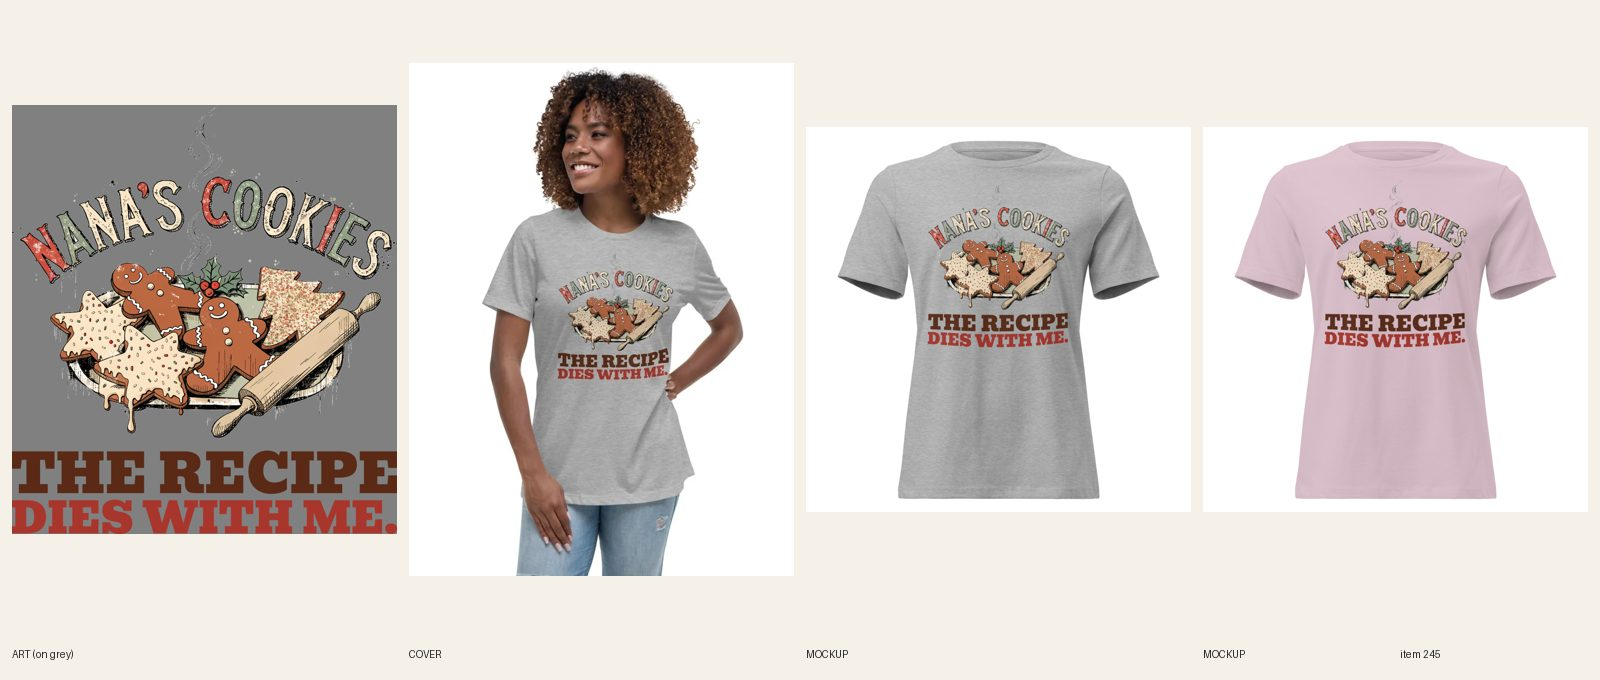
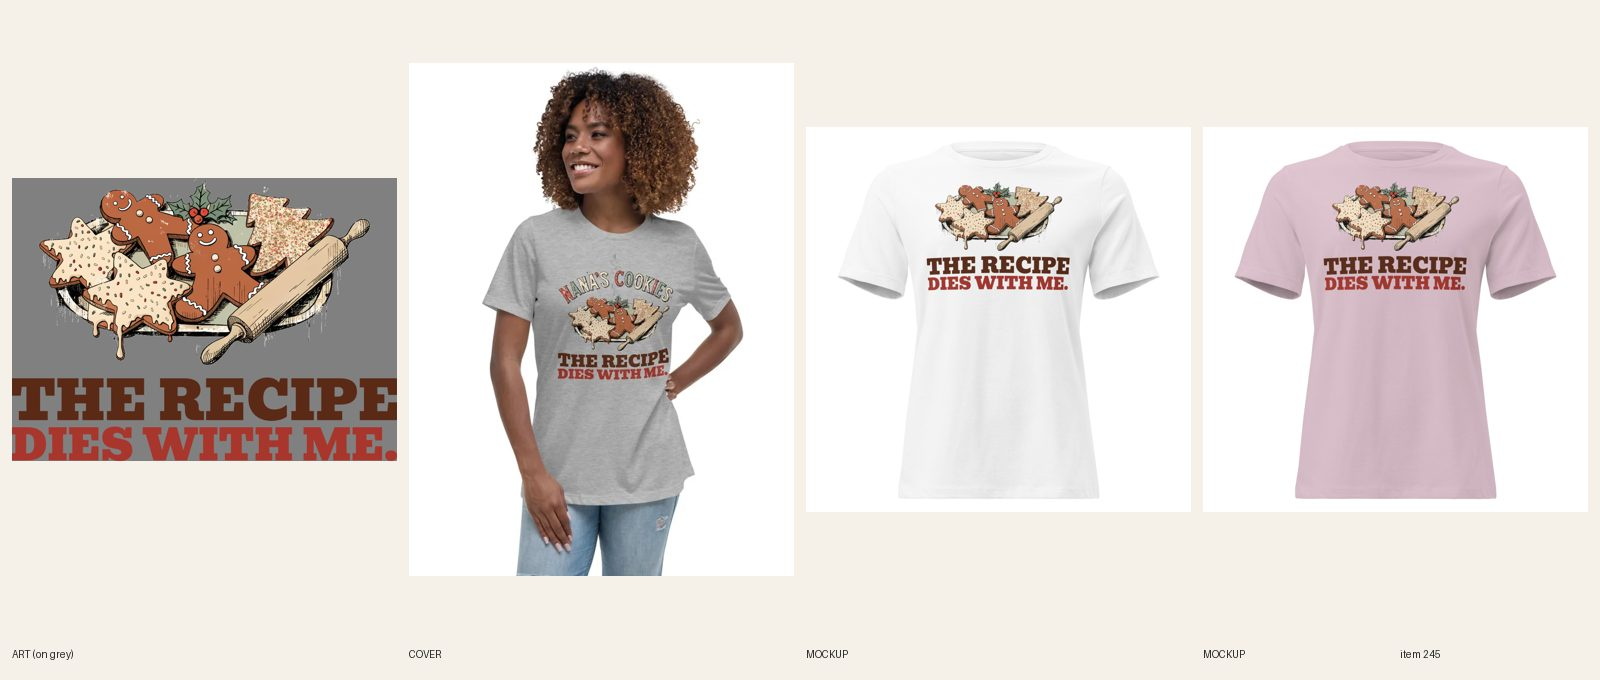
[A] review 245 Nana's Cookies: old arch removed from print; lock released

Changed region(s): [[0.0, 0.1544, 0.25, 0.8029], [0.5, 0.1853, 0.7188, 0.7412], [0.8125, 0.2471, 0.9375, 0.525]]

diff --git a/docs/pipeline/245-christmas-nanas-cookies.md b/docs/pipeline/245-christmas-nanas-cookies.md
@@ -28,3 +28,4 @@ handle: womens-christmas-nanas-cookies-graphic-tee
 - 2026-10-17 22:49 UTC director: APPROVED, LIVE. ACTIVE + Online Store, Headless and Google & YouTube; audit --admin-json PASS (0 warn) after an R8 copy polish (repeated product names and superlatives trimmed).
 - 2026-10-18 17:22 UTC director: QUALITY RESET grade C (new line + type), REDO. The product stays ACTIVE (same handle, URL, title keyword). 1. Line (R3.12, quality-reset 'Lines'): "NANA'S COOKIES / RECIPE NOT AVAILABLE": Noun + mild aside, the exact step-back pattern. Write 5 candidates, keep the one a stranger laughs at in 3 seconds without backstory; kill lines that only describe the picture; if none of the 5 is funny, PARK it. 2. Quality reset type bar (docs/backlog/quality-reset.md, 'The new bar'): headline at least 90% of the art width, heavy, colors pulled from the art; second line at least 45% of the headline's height, never a thin script on a dark or mid garment; use the lettering as a shape (arch, stacked lockup, words breaking into the art), not a plain bar above and a script line below; no font used on more than 1 in 6 of the last 30 designs. 3. Keep the art if it carries the new line, else one new illustration (R4/R5). New print means a new cover per R6.10, copy line one rewritten for the new joke (R8.3), and a fresh review sheet (R7.7). While quality-reset.md says PAUSED, only lane A builds, and only the samples step 2 names.
 - 2026-10-18 19:15 UTC builder [A]: quality-reset REDO sample 3 of 5. Five candidates (R3.12): Nana's Cookies / Recipe Not Available (old) / THE RECIPE DIES WITH ME. / Ask Nicely. She Still Won't Tell You. / Take The Cookies. Forget The Recipe. / Nana Says No To Sharing; kept #2, a stranger gets it in 3 s with no backstory. Art: same cookie tray and hand-lettered NANA'S COOKIES arch (old small line dropped, fal $0). Type: new font Bevan (OFL), THE RECIPE dark brown #5a2a17 and DIES WITH ME. red #a8362d, both lines 3400 px = 100% of the art width, second line 79% of the headline height, no script. Light colors only, so one dark-ink file (light file: n/a, no light-ink headline). Printful file 1089045338 (3400x3789), FW 1500 TOP 75, R7.7 relink 36/36 on 1089045338, back logo kept. New fronts for all 6 colors attached and linked, old fronts deleted, read at 400 px. Cover: Printful lifestyle Women's 3 front (style 19104) on Athletic Heather, hair and hand clear of the print, alt starts Woman. Copy, SEO and 5 FAQs (49-53 words, order-by Dec 8) rewritten. design-crops rerun, audit --handle PASS 0 warn, astro build OK. Twin #244 (crewneck) still carries the old line. Needs Sam's look.
+- 2026-10-19 02:10 UTC builder [A]: Sam's #245 fix (remove old sprinkle-filled NANA'S COOKIES arch + steam). Art: arch and steam erased from the live print, cookie tray kept, lockup THE RECIPE / DIES WITH ME. unchanged (docs/print-files/245-recipe-v2.png, 3400x2498, Printful file 1089291319, FW 1500 TOP 75). Relinked 36/36 + back logo; new fronts for all 6 colors attached and linked, old fronts deleted; read at 400 px (White, Athletic Heather, Light Violet). Copy: Story + FAQ 1 no longer mention the arch. Cover untouched (on hold, Sam 2026-10-19). audit --handle PASS 0 warn. fal $0. Sheet docs/review/245.jpg. #624 print-lower/bigger not touched: its complaint was the pasted cover print (cover work on hold) and its print already FW 1500 TOP 0 (1727 px of 2100 area). REVIEW for Sam's look.

diff --git a/docs/intake-log.md b/docs/intake-log.md
@@ -1,4 +1,4 @@
-RUNNING lane A since 2026-10-19 02:03 UTC
+2026-10-19 02:10 UTC — [A] Builder run (quality reset, sample REDO only): #245 old sprinkle arch and steam removed from the print (tray + THE RECIPE / DIES WITH ME. kept), 36/36 relinked, 6 new color mockups, copy fixed, REVIEW (stays ACTIVE). #624 untouched: its remaining complaint was the cover (on hold). Covers on hold per Sam. fal 0. Lock released.
 2026-10-19 01:44 UTC — [H] Helper run: Telegram inbox empty (getUpdates returned 0 updates; no pause, resume or TikTok links; nothing to consume). Audit (597 products): 0 errors, 30 warnings left alone (polish); no meta, SEO, collection or price errors to fix. Category check (one-time rule, still checking): 0 products without a category. Site freshness: womens-nana-mom-said-no-thats-cute-crewneck-sweatshirt, mens-welder-i-basically-hot-glue-metal-graphic-tee, mens-running-i-only-run-downhill-graphic-tee all 200; /group-shirts/ 200. Stuck check: none (0 items BUILDING; no lane lock). Daily summary not due (first run after 12:00 UTC is still ahead). Lock released.
 2026-10-19 01:20 UTC — [D] Director run (quality reset still PAUSED: published nothing, wrote no design briefs). Inbox: nothing new since 23:15. Reviewed sock REDOs #660 and #664 from their sheets: both APPROVED and held as DRAFT at REVIEW until RESUME, so all 6 socks (#660-#665) are approved and waiting; #661-663/665 still need the one-word 'lockup' copy fix at publish. Niche collection pages: nothing newly eligible (no new LIVE products). Weekly AEO check (Monday) skipped: the reset allows step 1 and the niche pages only. No Telegram (midnight digest already sent; nothing needs Sam; his 5 samples still await his reply). Lock released.
 2026-10-19 00:44 UTC — [H] Helper run: Telegram inbox empty (getUpdates returned 0 updates; no pause, resume or TikTok links; nothing to consume). Audit (597 products): 0 errors, 30 warnings left alone (polish); no meta, SEO or collection fixes needed; no price errors. Category check (one-time rule, still checking): 0 products without a category (positive control returns aa-1-13-8). Site freshness: womens-nana-mom-said-no-thats-cute-crewneck-sweatshirt, mens-welder-i-basically-hot-glue-metal-graphic-tee, mens-running-i-only-run-downhill-graphic-tee all 200; /group-shirts/ 200. Stuck check: none (0 items BUILDING; no other lane lock). Daily summary not due (first run after 12:00 UTC is still ahead). Lock released.
